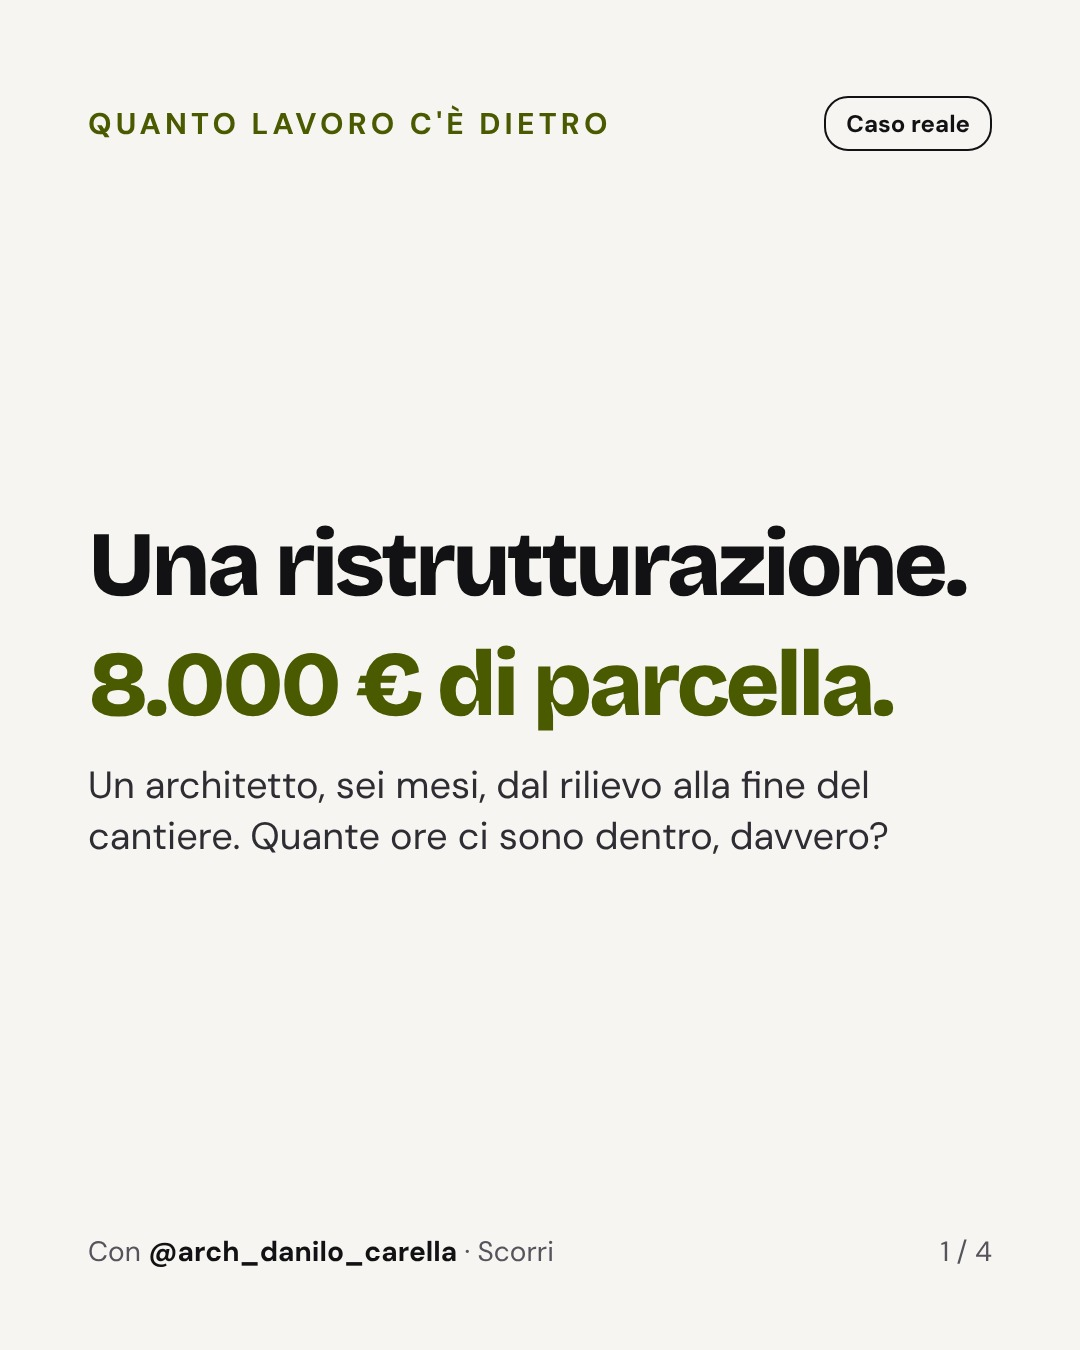
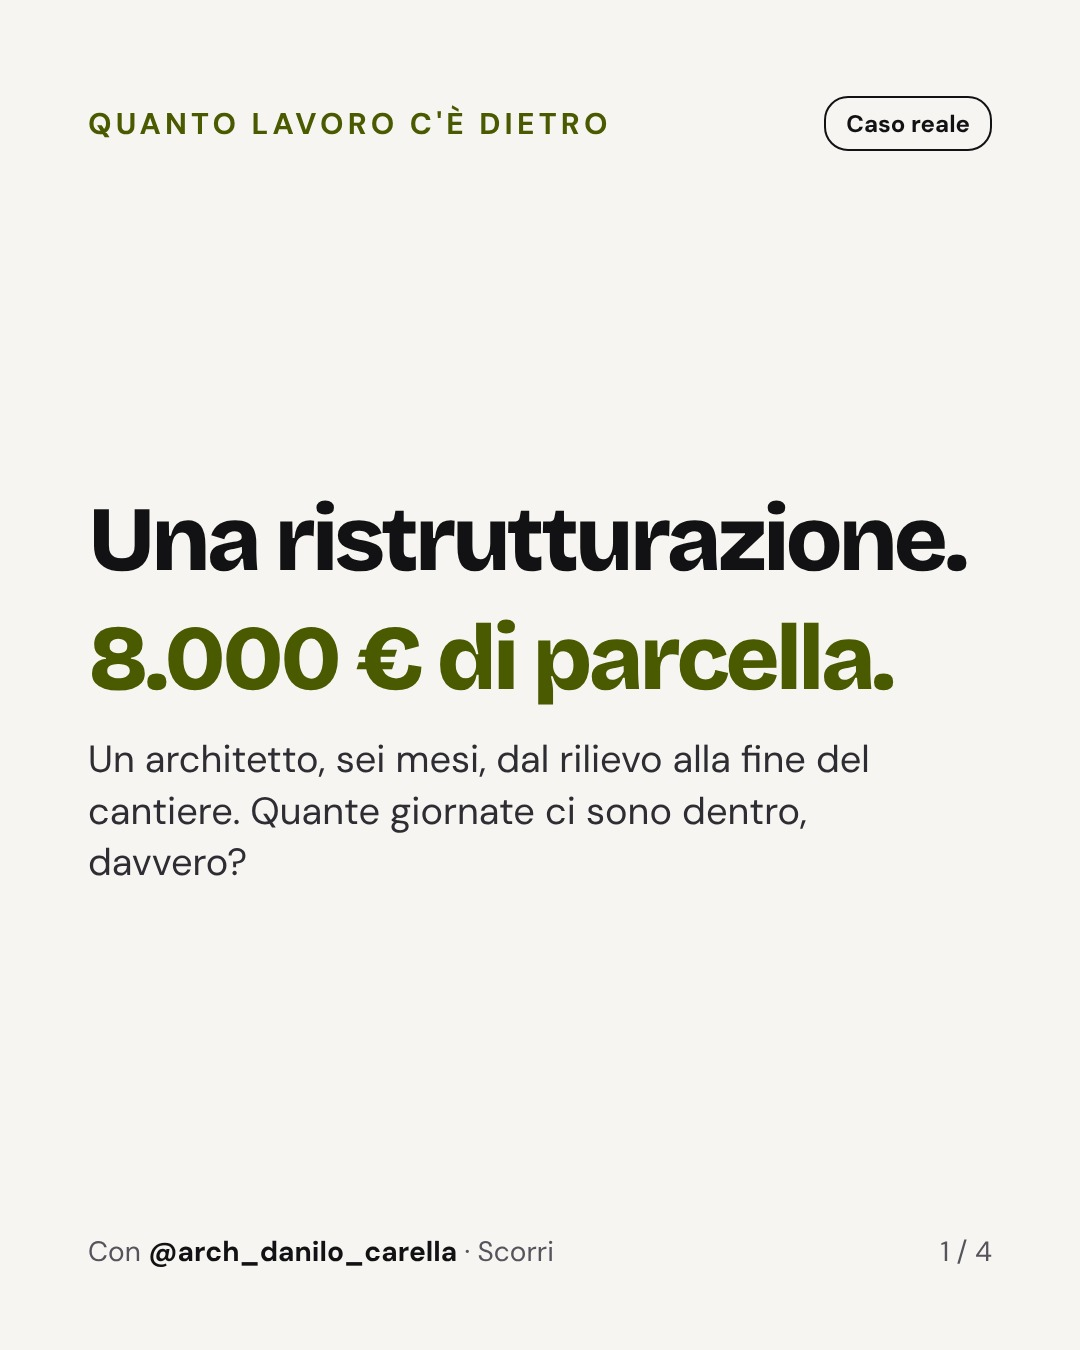
Autopsia Danilo: tutto in giornate e mezze giornate
Claude-Session: https://claude.ai/code/session_01WRBMKL9mWBeZBFDMMn3MKh

Changed region(s): [[0.0611, 0.3733, 0.9167, 0.6533]]

diff --git a/grafiche/danilo-3.dc.html b/grafiche/danilo-3.dc.html
@@ -13,34 +13,34 @@
 </helmet>
 <div style="width: 1080px; height: 1350px; box-sizing: border-box; padding: 96px 88px 80px; font-family: 'DM Sans', sans-serif; display: flex; flex-direction: column; justify-content: space-between; background: #F6F5F1; color: #121214">
 <div style="display: flex; align-items: center; justify-content: space-between; gap: 24px">
-<span style="font-size: 30px; font-weight: 700; letter-spacing: 0.14em; text-transform: uppercase; color: #4A5A00">Dove sono finite le ore</span>
+<span style="font-size: 30px; font-weight: 700; letter-spacing: 0.14em; text-transform: uppercase; color: #4A5A00">Dove sono finite le giornate</span>
 <span style="white-space: nowrap; padding: 10px 20px; border-radius: 24px; border: 2px solid #121214; font-size: 24px; font-weight: 700">Caso reale</span>
 </div>
 <div style="display: flex; flex-direction: column; gap: 36px">
 <div style="display: flex; flex-direction: column; gap: 14px">
-<div style="display: flex; align-items: baseline; justify-content: space-between; font-size: 36px"><span style="font-weight: 700">Cantiere e direzione lavori</span><span style="font-family: 'Bricolage Grotesque', sans-serif; font-weight: 800; font-size: 48px">200 <span style="font-family: 'DM Sans', sans-serif; font-weight: 500; font-size: 28px; color: #55545C">ore</span></span></div>
+<div style="display: flex; align-items: baseline; justify-content: space-between; font-size: 36px"><span style="font-weight: 700">Cantiere e direzione lavori</span><span style="font-family: 'Bricolage Grotesque', sans-serif; font-weight: 800; font-size: 48px">25 <span style="font-family: 'DM Sans', sans-serif; font-weight: 500; font-size: 28px; color: #55545C">giornate</span></span></div>
 <div style="position: relative; height: 44px; border-radius: 10px; background: #E4E3DD"><div style="position: absolute; left: 0; top: 0; bottom: 0; width: 904px; border-radius: 10px; background: #4A5A00"></div></div>
 </div>
 <div style="display: flex; flex-direction: column; gap: 14px">
-<div style="display: flex; align-items: baseline; justify-content: space-between; font-size: 36px"><span style="font-weight: 700">Progetto, con 5 revisioni</span><span style="font-family: 'Bricolage Grotesque', sans-serif; font-weight: 800; font-size: 48px">50 <span style="font-family: 'DM Sans', sans-serif; font-weight: 500; font-size: 28px; color: #55545C">ore</span></span></div>
-<div style="position: relative; height: 44px; border-radius: 10px; background: #E4E3DD"><div style="position: absolute; left: 0; top: 0; bottom: 0; width: 226px; border-radius: 10px; background: #121214"></div></div>
+<div style="display: flex; align-items: baseline; justify-content: space-between; font-size: 36px"><span style="font-weight: 700">Progetto, con 5 revisioni</span><span style="font-family: 'Bricolage Grotesque', sans-serif; font-weight: 800; font-size: 48px">6,5 <span style="font-family: 'DM Sans', sans-serif; font-weight: 500; font-size: 28px; color: #55545C">giornate</span></span></div>
+<div style="position: relative; height: 44px; border-radius: 10px; background: #E4E3DD"><div style="position: absolute; left: 0; top: 0; bottom: 0; width: 235px; border-radius: 10px; background: #121214"></div></div>
 </div>
 <div style="display: flex; flex-direction: column; gap: 14px">
-<div style="display: flex; align-items: baseline; justify-content: space-between; font-size: 36px"><span style="font-weight: 700">Scelta dei materiali</span><span style="font-family: 'Bricolage Grotesque', sans-serif; font-weight: 800; font-size: 48px">8 <span style="font-family: 'DM Sans', sans-serif; font-weight: 500; font-size: 28px; color: #55545C">ore</span></span></div>
+<div style="display: flex; align-items: baseline; justify-content: space-between; font-size: 36px"><span style="font-weight: 700">Scelta dei materiali</span><span style="font-family: 'Bricolage Grotesque', sans-serif; font-weight: 800; font-size: 48px">1 <span style="font-family: 'DM Sans', sans-serif; font-weight: 500; font-size: 28px; color: #55545C">giornata</span></span></div>
 <div style="position: relative; height: 44px; border-radius: 10px; background: #E4E3DD"><div style="position: absolute; left: 0; top: 0; bottom: 0; width: 36px; border-radius: 10px; background: #121214"></div></div>
 </div>
 <div style="display: flex; flex-direction: column; gap: 14px">
-<div style="display: flex; align-items: baseline; justify-content: space-between; font-size: 36px"><span style="font-weight: 700">Rilievo</span><span style="font-family: 'Bricolage Grotesque', sans-serif; font-weight: 800; font-size: 48px">2 <span style="font-family: 'DM Sans', sans-serif; font-weight: 500; font-size: 28px; color: #55545C">ore</span></span></div>
-<div style="position: relative; height: 44px; border-radius: 10px; background: #E4E3DD"><div style="position: absolute; left: 0; top: 0; bottom: 0; width: 14px; border-radius: 10px; background: #121214"></div></div>
+<div style="display: flex; align-items: baseline; justify-content: space-between; font-size: 36px"><span style="font-weight: 700">Rilievo</span><span style="font-family: 'Bricolage Grotesque', sans-serif; font-weight: 800; font-size: 48px">½ <span style="font-family: 'DM Sans', sans-serif; font-weight: 500; font-size: 28px; color: #55545C">giornata</span></span></div>
+<div style="position: relative; height: 44px; border-radius: 10px; background: #E4E3DD"><div style="position: absolute; left: 0; top: 0; bottom: 0; width: 18px; border-radius: 10px; background: #121214"></div></div>
 </div>
 <div style="display: flex; flex-direction: column; gap: 14px">
-<div style="display: flex; align-items: baseline; justify-content: space-between; font-size: 36px"><span style="font-weight: 700">SCIA, compilazione e invio</span><span style="font-family: 'Bricolage Grotesque', sans-serif; font-weight: 800; font-size: 48px">2 <span style="font-family: 'DM Sans', sans-serif; font-weight: 500; font-size: 28px; color: #55545C">ore</span></span></div>
-<div style="position: relative; height: 44px; border-radius: 10px; background: #E4E3DD"><div style="position: absolute; left: 0; top: 0; bottom: 0; width: 14px; border-radius: 10px; background: #121214"></div></div>
+<div style="display: flex; align-items: baseline; justify-content: space-between; font-size: 36px"><span style="font-weight: 700">SCIA, compilazione e invio</span><span style="font-family: 'Bricolage Grotesque', sans-serif; font-weight: 800; font-size: 48px">½ <span style="font-family: 'DM Sans', sans-serif; font-weight: 500; font-size: 28px; color: #55545C">giornata</span></span></div>
+<div style="position: relative; height: 44px; border-radius: 10px; background: #E4E3DD"><div style="position: absolute; left: 0; top: 0; bottom: 0; width: 18px; border-radius: 10px; background: #121214"></div></div>
 </div>
 </div>
-<span style="font-family: 'Bricolage Grotesque', sans-serif; font-weight: 800; font-size: 62px; line-height: 1.02; letter-spacing: -0.025em">Tre ore su quattro sono in cantiere. Nessun render le mostra.</span>
+<span style="font-family: 'Bricolage Grotesque', sans-serif; font-weight: 800; font-size: 62px; line-height: 1.02; letter-spacing: -0.025em">Tre giornate su quattro sono in cantiere. Nessun render le mostra.</span>
 <div style="display: flex; align-items: flex-end; justify-content: space-between; gap: 40px; font-size: 28px; color: #55545C">
-<span>Ore indicate dall'architetto, arrotondate.</span>
+<span>Contate a mezze giornate, come in Clepsi.</span>
 <span>3 / 4</span>
 </div>
 </div>

diff --git a/grafiche/danilo-2.dc.html b/grafiche/danilo-2.dc.html
@@ -13,17 +13,17 @@
 </helmet>
 <div style="width: 1080px; height: 1350px; box-sizing: border-box; padding: 96px 88px 80px; font-family: 'DM Sans', sans-serif; display: flex; flex-direction: column; justify-content: space-between; background: #0B0B0D; color: #F6F5F1">
 <div style="display: flex; align-items: center; justify-content: space-between; gap: 24px">
-<span style="font-size: 30px; font-weight: 700; letter-spacing: 0.14em; text-transform: uppercase; color: #D4FF3A">Il conto delle ore</span>
+<span style="font-size: 30px; font-weight: 700; letter-spacing: 0.14em; text-transform: uppercase; color: #D4FF3A">Il conto delle giornate</span>
 <span style="white-space: nowrap; padding: 10px 20px; border-radius: 24px; border: 2px solid #55545C; font-size: 24px; font-weight: 700; color: #D8D7DE">Caso reale</span>
 </div>
 <div style="display: flex; flex-direction: column; border-top: 2px solid #2E2E34">
-<div style="display: flex; align-items: baseline; justify-content: space-between; gap: 24px; padding: 28px 0; border-bottom: 2px solid #2E2E34"><span style="font-size: 38px; color: #D8D7DE">Ore di lavoro</span><span style="font-family: 'Bricolage Grotesque', sans-serif; font-weight: 800; font-size: 64px">262</span></div>
-<div style="display: flex; align-items: baseline; justify-content: space-between; gap: 24px; padding: 28px 0; border-bottom: 2px solid #2E2E34"><span style="font-size: 38px; color: #D8D7DE">Giornate da 8 ore</span><span style="font-family: 'Bricolage Grotesque', sans-serif; font-weight: 800; font-size: 64px">circa 33</span></div>
+<div style="display: flex; align-items: baseline; justify-content: space-between; gap: 24px; padding: 28px 0; border-bottom: 2px solid #2E2E34"><span style="font-size: 38px; color: #D8D7DE">Giornate di lavoro</span><span style="font-family: 'Bricolage Grotesque', sans-serif; font-weight: 800; font-size: 64px">33,5</span></div>
+<div style="display: flex; align-items: baseline; justify-content: space-between; gap: 24px; padding: 28px 0; border-bottom: 2px solid #2E2E34"><span style="font-size: 38px; color: #D8D7DE">Mezze giornate</span><span style="font-family: 'Bricolage Grotesque', sans-serif; font-weight: 800; font-size: 64px">67</span></div>
 <div style="display: flex; align-items: baseline; justify-content: space-between; gap: 24px; padding: 28px 0; border-bottom: 2px solid #2E2E34"><span style="font-size: 38px; color: #D8D7DE">Durata della commessa</span><span style="font-family: 'Bricolage Grotesque', sans-serif; font-weight: 800; font-size: 64px">6 mesi</span></div>
 </div>
 <div style="display: flex; flex-direction: column; gap: 20px">
-<span style="font-size: 32px; font-weight: 700; color: #D4FF3A">8.000 € diviso 262 ore</span>
-<span style="font-family: 'Bricolage Grotesque', sans-serif; font-weight: 800; font-size: 168px; line-height: 0.88; letter-spacing: -0.05em; color: #D4FF3A">≈ 30 €<span style="font-family: 'DM Sans', sans-serif; font-weight: 500; font-size: 48px; letter-spacing: 0; color: #F6F5F1"> l'ora</span></span>
+<span style="font-size: 32px; font-weight: 700; color: #D4FF3A">8.000 € diviso 33,5 giornate</span>
+<span style="font-family: 'Bricolage Grotesque', sans-serif; font-weight: 800; font-size: 168px; line-height: 0.88; letter-spacing: -0.05em; color: #D4FF3A">≈ 240 €<span style="font-family: 'DM Sans', sans-serif; font-weight: 500; font-size: 48px; letter-spacing: 0; color: #F6F5F1"> a giornata</span></span>
 <span style="font-size: 36px; line-height: 1.35; color: #D8D7DE">Lordi. Prima di tasse, contributi, software, auto e assicurazione.</span>
 </div>
 <div style="display: flex; align-items: flex-end; justify-content: space-between; gap: 40px; font-size: 28px; color: #A9A8B2">

diff --git a/grafiche/danilo-1.dc.html b/grafiche/danilo-1.dc.html
@@ -19,7 +19,7 @@
 <div style="display: flex; flex-direction: column; gap: 32px">
 <span style="font-family: 'Bricolage Grotesque', sans-serif; font-weight: 800; font-size: 92px; line-height: 0.95; letter-spacing: -0.04em">Una ristrutturazione.</span>
 <span style="font-family: 'Bricolage Grotesque', sans-serif; font-weight: 800; font-size: 92px; line-height: 0.95; letter-spacing: -0.04em; color: #4A5A00">8.000 € di parcella.</span>
-<span style="font-size: 38px; line-height: 1.35; color: #2E2D33; max-width: 840px">Un architetto, sei mesi, dal rilievo alla fine del cantiere. Quante ore ci sono dentro, davvero?</span>
+<span style="font-size: 38px; line-height: 1.35; color: #2E2D33; max-width: 840px">Un architetto, sei mesi, dal rilievo alla fine del cantiere. Quante giornate ci sono dentro, davvero?</span>
 </div>
 <div style="display: flex; align-items: flex-end; justify-content: space-between; gap: 40px; font-size: 28px; color: #55545C">
 <span>Con <span style="font-weight: 700; color: #121214">@arch_danilo_carella</span> · Scorri</span>

diff --git a/collab/danilo/didascalia.md b/collab/danilo/didascalia.md
@@ -1,16 +1,17 @@
 # Autopsia in Collab con @arch_danilo_carella · bozza 7/11
 
 Carosello 4 tavole (sorgenti: grafiche/danilo-1..4.dc.html; render: python3 strumenti/render_ig.py grafiche lavoro/danilo danilo-1,danilo-2,danilo-3,danilo-4).
-Dati di Danilo (DM 7/11): parcella 8.000 € + IVA e cassa; rilievo 2 h; SCIA 2 h; progetto 50 h con 5 revisioni; materiali 8 h; cantiere 6 mesi, 200 h in totale; una persona. Totale 262 h ≈ 32,75 giornate da 8 h; ≈ 30,5 €/ora; cantiere 76%.
-Da confermare con Danilo: tipo di intervento ("Una ristrutturazione"), pubblicazione del dato "≈ 30 € l'ora", post come Collab.
+Dati di Danilo (DM 7/11, in ore): parcella 8.000 € + IVA e cassa; rilievo 2 h; SCIA 2 h; progetto 50 h con 5 revisioni; materiali 8 h; cantiere 6 mesi, 200 h in totale; una persona.
+Tradotti in mezze giornate da 4 h, arrotondate per voce come le segnerebbe Clepsi: cantiere 50 (25 giornate), progetto 13 (6,5), materiali 2 (1), rilievo 1 (½), SCIA 1 (½). Totale 67 mezze giornate = 33,5 giornate; 8.000 / 33,5 ≈ 240 € a giornata; cantiere 75%.
+Da confermare con Danilo: tipo di intervento ("Una ristrutturazione"), pubblicazione del dato "≈ 240 € a giornata", post come Collab.
 
 Didascalia:
 
-Quanto lavoro c'è dietro una ristrutturazione da 8.000 € di parcella? Lo abbiamo chiesto a @arch_danilo_carella.
+Quante giornate ci sono dentro una ristrutturazione da 8.000 € di parcella? Lo abbiamo chiesto a @arch_danilo_carella.
 
-262 ore in sei mesi, seguite da una persona sola: 2 di rilievo, 50 di progetto (con 5 revisioni), 8 per scegliere i materiali, 2 per la SCIA e 200 in cantiere. Fanno circa 30 € l'ora, prima di tasse, contributi e spese dello studio.
+33 giornate e mezza in sei mesi, seguite da una persona sola: mezza giornata di rilievo, 6 e mezza di progetto (con 5 revisioni), una per scegliere i materiali, mezza per la SCIA e 25 in cantiere. Fanno circa 240 € a giornata, prima di tasse, contributi e spese dello studio.
 
-Tre ore su quattro sono in cantiere: la parte del progetto che nessun render mostra.
+Tre giornate su quattro sono in cantiere: la parte del progetto che nessun render mostra.
 
 Hai una commessa chiusa? Scrivi AUTOPSIA in DM: te la facciamo gratis, i dati restano tuoi.
 Prova l'app: link in bio. I primi 100 studi pagano la metà il primo anno.
